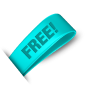
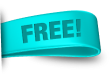
[wip] gsp

diff --git a/css/hmui/common.css b/css/hmui/common.css
@@ -246,6 +246,9 @@ section[data-roll] {
 .section_cont.type_sub {
   border-top: 0.8rem solid #F3F8FA;
 }
+.section_cont.type_narrow {
+  padding: 4.0rem 2.4rem;
+}
 .section_cont .wrap_tit {
   padding-top: 0;
 }
@@ -351,7 +354,6 @@ section[data-roll] {
   padding-top: 1.0rem;
 }
 [class^="tit_section"] {
-  margin-bottom: 3.0rem;
   font-size: 2.6rem;
   line-height: 3.2rem;
   font-weight: 300;
@@ -361,6 +363,9 @@ section[data-roll] {
 }
 [class^="tit_section_center"] {
   text-align: center;
+}
+.tit_section {
+  margin-bottom: 3.0rem;
 }
 .tit_section_2 {
   font-size: 2.4rem;
@@ -430,6 +435,16 @@ section[data-roll] {
   height: 0.6rem;
   background: url('../../images/hmui/ico_balloon_caret.png') no-repeat 50%;
   background-size: 100%;
+}
+.txt_highlight {
+  position: relative;
+  display: inline-block;
+  margin-top: 0.8rem;
+  font-size: 1.5rem;
+  line-height: 2.0rem;
+  color: #4F5D64;
+  background: rgba(19, 201, 190, 0.2) left 50% bottom 0%;
+  background-size: 100% 0.8rem;
 }
 [class^="flag_terms_"] {
   display: inline-block;
@@ -1352,6 +1367,51 @@ button.btn_secondery {
 .wrap_link_list li {
   overflow: hidden;
   margin-top: 5px;
+}
+.list_num {
+  counter-reset: numberlist;
+} 
+.list_num li {
+  position: relative;
+  padding-left: 3.6rem;
+  counter-increment: numberlist;
+}
+.list_num li + li {
+  margin-top: 3.0rem;
+}
+.list_num li .tit {
+  font-size: 1.8rem;
+  line-height: 2.4rem;
+  word-break: keep-all;
+}
+.list_num li .tit em {
+  font-weight: 700;
+}
+.list_num li .tit::before {
+  content: counter(numberlist);
+  display: inline-block;
+  position: absolute;
+  left: 0;
+  width: 2.6rem;
+  height: 2.6rem;
+  margin-right: 1.0rem;
+  border-radius: 50%;
+  background-color: #6E7D85;
+  color: #fff;
+  font-size: 1.5rem;
+  line-height: 2.6rem;
+  font-weight: 700;
+  text-align: center;
+}
+.list_num li .box_img {
+  overflow: hidden;
+  margin-top: 2.0rem;
+  border-radius: 0.8rem;
+  box-shadow: 0px 4px 8px rgba(136, 136, 136, 0.25);
+}
+.list_num li .box_img img {
+  display: block;
+  width: 100%;
 }
 
 /* Box */
@@ -2558,21 +2618,49 @@ div[class^="wrap_box_"] .wrap_btn.type_full {
 .list_benefit_label .flag_free {
   position: absolute;
   right: -1.6rem;
-  top: -1.9rem;
-  width: 4.5rem;
-  height: 4.3rem;
+  top: -1.2rem;
+  width: 3.8rem;
+  height: 2.5rem;
   z-index: 10;
   background: url('../../images/hmui/flag_free.png') no-repeat 50%;
   background-size: 100%;
-}
-.list_benefit_label li [class^="emoji_"] {
-  
+  transform: rotate(-38.87deg);
 }
 .list_benefit_label.type_full {
   display: block;
 }
 .list_benefit_label.type_full li {
+  flex-direction: row;
+  justify-content: flex-start;
   width: 100%;
+  min-height: auto;
+  height: 5.1rem;
+  margin-top: 1.0rem;
+  padding: 0 2.4rem;
+  border-radius: 2.6rem;
+  font-size: 1.8rem;
+  line-height: 2.4rem;
+  font-weight: 400;
+  text-align: left;
+}
+.list_benefit_label.type_full li:first-child {
+  margin-top: 0;
+}
+.list_benefit_label.type_full li [class^="emoji_"] {
+  width: 3.6rem;
+  height: 3.6rem;
+  margin: 0 0.8rem;
+  vertical-align: top;
+}
+.list_benefit_label.type_full .flag_free {
+  top: 0.7rem;
+  right: -2.1rem;
+  width: 5.4rem;
+  height: 3.5rem;
+  transform: rotate(0);
+}
+[class^="tit_section"] + .list_benefit_label {
+  margin-top: 3.0rem;
 }
 
 /* 유의사항 */

diff --git a/html/global/GSP/GSP_001.html b/html/global/GSP/GSP_001.html
@@ -56,6 +56,10 @@
 
           <div class="section_cont bg_bluegrey">
             <h3 class="tit_section_center">해외직구, <em>어떻게 결제하면</em><br>혜택을 받을 수 있을까요?</h3>
+            <div class="visual_gsp_drone">
+              <p class="txt_guide">예를 들어,<br><span class="img_logo_amazone"><span class="blind">amazon</span>이라면?</p>
+              <span class="img_drone_cloud"></span>
+            </div>
             <div class="box_card_type">
               <ul class="list_num">
                 <li>
@@ -97,11 +101,15 @@
                 </li>
               </ul>
             </div>
-            <p class="txt_sub">현재 외화 하나머니가 제공하는 통화는 <strong>USD, JPY, EUR, GBP 총 4가지</strong>에요. 해당 통화로 설정되었는지 확인하고 <em class="txt_point_2">해외결제 수수료를 아껴보세요!</em></p>
+            <p class="txt_sub">현재 외화 하나머니가 제공하는 통화는<br><strong>USD, JPY, EUR, GBP 총 4가지</strong>에요.<br>해당 통화로 설정되었는지 확인하고<br><em class="txt_point_2">해외결제 수수료를 아껴보세요!</em></p>
           </div>
 
           <div class="section_cont bg_grey">
             <h3 class="tit_section_center">해외직구, 결제 통화를<br><em>원화가 아닌 외화로 설정하면</em><br>어떤 점이 좋은가요?</h3>
+            <div class="visual_gsp_shopping">
+              <p class="txt_guide"><span class="img_logo_amazone"><span class="blind">amazon</span>쇼핑몰과<br>비교해 볼게요!</p>
+              <span class="img_character_shopping"></span>
+            </div>
             <div class="box_card_type">
               <div class="wrap_box type_gradient">
                 <p>외화 하나머니로 구매하니까 같은 제품이어도</p>
@@ -121,10 +129,10 @@
                 </ul>
               </div>
             </div>
-            <p class="txt_sub">제품마다 할인율은 달라질 수 있지만 외화 하나머니로 똑똑하게 해외 직구해 보세요!</p>
+            <p class="txt_sub">제품마다 할인율은 달라질 수 있지만<br>외화 하나머니로 똑똑하게 해외 직구해 보세요!</p>
           </div>
 
-          <div class="section_cont">
+          <div class="section_cont type_narrow">
             <ul class="list_txt">
               <li>매매기준율 2022년04월28일(576회차) USD 기준</li>
               <li>2021 아이패드 프로 와이파이버전 실버 1TB 단순제품가격 비교</li>

diff --git a/css/global/contents.css b/css/global/contents.css
@@ -472,6 +472,41 @@
   background: url('../../images/global/bg_gsp1_cloud.png') no-repeat 50%;
   background-size: 100%;
 }
+.visual_gsp_drone {
+  position: relative;
+  margin-top: 3.0rem;
+}
+.visual_gsp_drone + .box_card_type {
+  z-index: 20;
+}
+.visual_gsp_drone > p,
+.visual_gsp_shopping > p {
+  color: #4F5D64;
+  font-size: 1.4rem;
+  line-height: 2.0rem;
+}
+.visual_gsp_drone::before,
+.visual_gsp_shopping::before {
+  content: '';
+  display: block;
+  position: absolute;
+  right: 0;
+  z-index: 1;
+  width: 10rem;
+  height: 10rem;
+  border-radius: 50%;
+  background: linear-gradient(147.1deg, #EAFBFF -17.36%, #FFEACA 98.48%);
+}
+.visual_gsp_drone > p {
+  margin-bottom: 1.6rem;
+}
+.visual_gsp_shopping > p {
+  margin-bottom: 1.4rem;
+}
+.visual_gsp_shopping {
+  position: relative;
+  margin-top: 2.0rem;
+}
 /* 트래블로그 혜택안내 */
 .section_top_visual.travlog_benefit {
   background: linear-gradient(137.12deg, #DAFFED 0%, #EFCBEB 123.54%);
